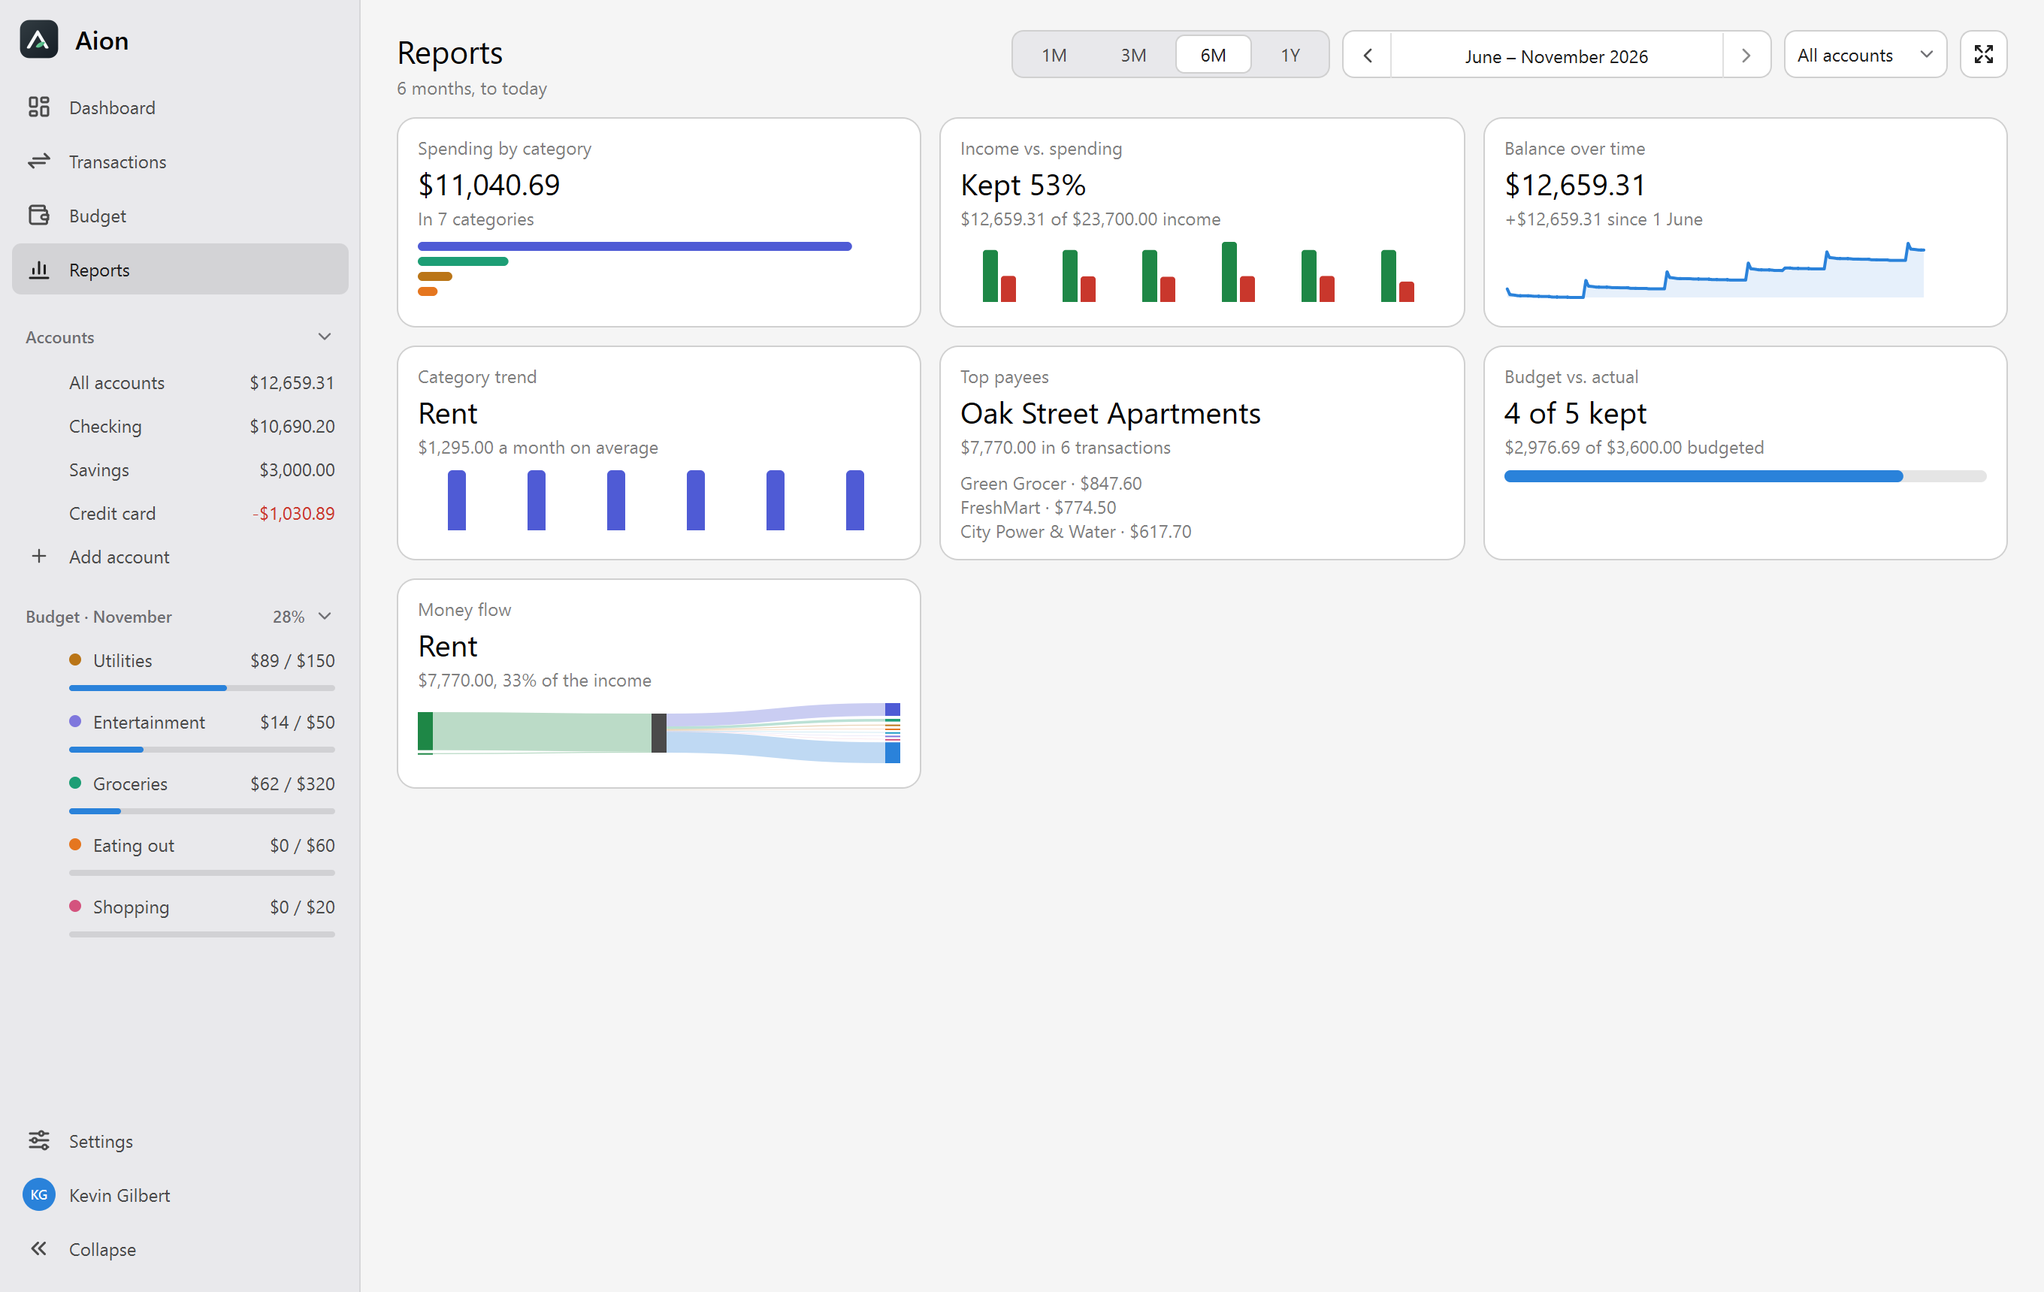
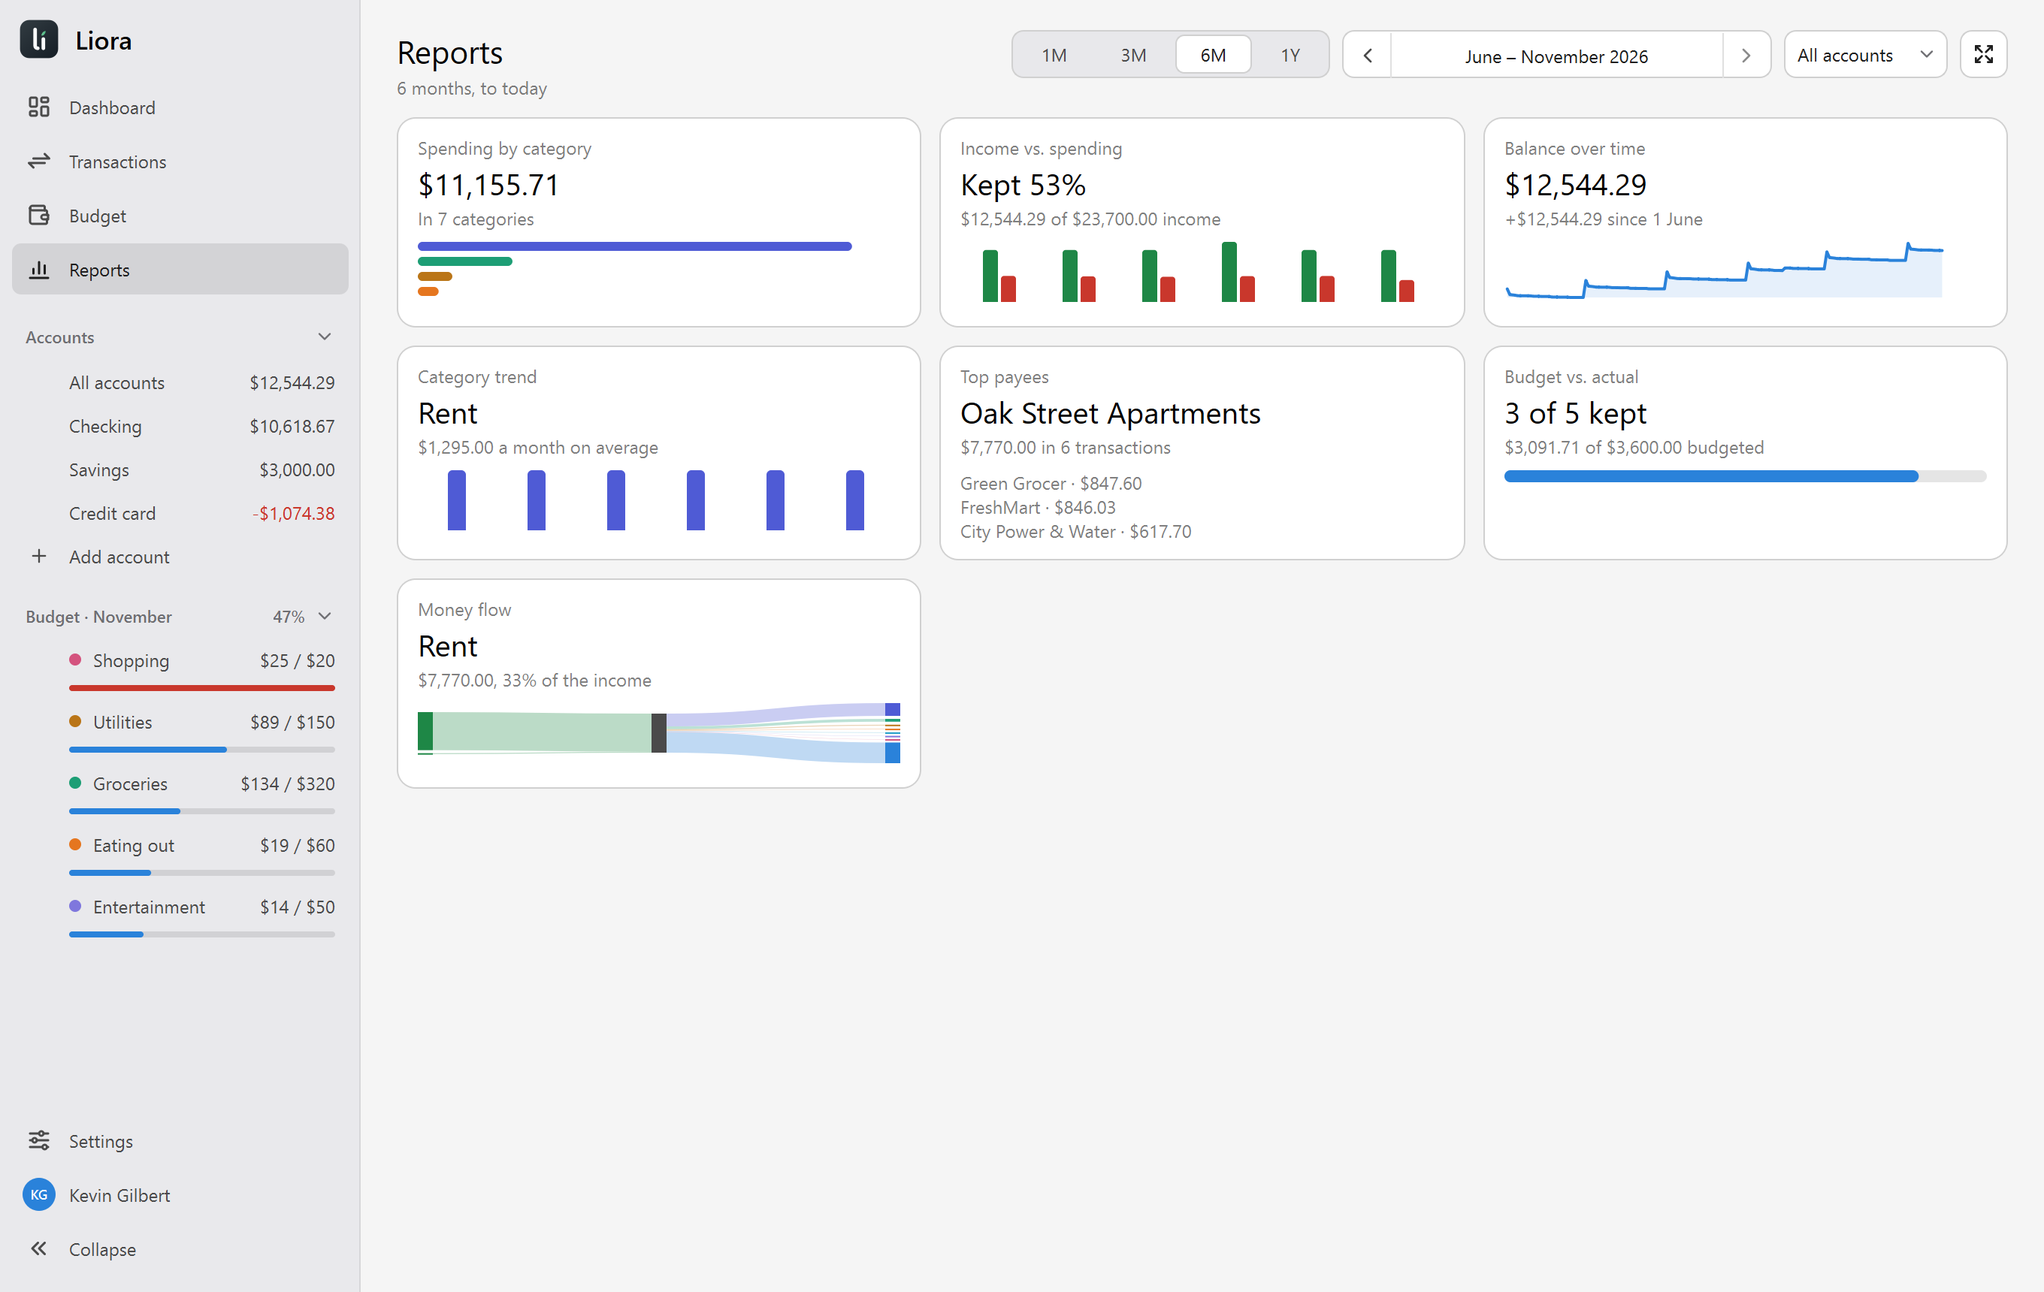
docs: the docs and screenshots say Liora, and the README explains how Aion's data is carried over

diff --git a/CONTRIBUTING.md b/CONTRIBUTING.md
@@ -1,4 +1,4 @@
-# Contributing to Aion
+# Contributing to Liora
 
 This page explains how to set up a development environment. For a quick build from the command line,
 see [Building](README.md#building) in the README.
@@ -12,7 +12,7 @@ see [Building](README.md#building) in the README.
 
 ## Choosing a compiler (Windows)
 
-Aion builds with MSVC and with MinGW. CI builds Linux and a MinGW build for Windows, and the coverage
+Liora builds with MSVC and with MinGW. CI builds Linux and a MinGW build for Windows, and the coverage
 script needs GCC or Clang. Use whichever you like. The one rule is that the compiler has to match the Qt kit
 you build against, because Qt's libraries only link with the compiler they were built with:
 
@@ -72,13 +72,13 @@ the old compiler.
 
 Build with **Build → Build Project** (Ctrl+F9).
 
-### 3. Running and debugging Aion
+### 3. Running and debugging Liora
 
-Choose **Aion** in the run configuration dropdown, then Run or Debug.
+Choose **Liora** in the run configuration dropdown, then Run or Debug.
 
 If you didn't set up the environment file in step 1, add Qt's `bin` folder to the run configuration:
-open **Run → Edit Configurations → Aion → Environment variables** and add
-`PATH=C:\Qt\6.12.0\msvc2022_64\bin;$PATH$`. Without it, Aion stops right away because Windows can't
+open **Run → Edit Configurations → Liora → Environment variables** and add
+`PATH=C:\Qt\6.12.0\msvc2022_64\bin;$PATH$`. Without it, Liora stops right away because Windows can't
 find `Qt6Core.dll` or `Qt6Cored.dll`.
 
 To see `QString`, `QList` and other Qt types in the debugger, go to
@@ -100,7 +100,7 @@ runs, so it doesn't have to be listed anywhere.
 
 To give new run configurations these variables automatically, set them in
 **Edit configuration templates…** under **CTest Application**. Don't add `QT_QPA_PLATFORM=offscreen`
-to the **CMake Application** template, or Aion's window won't appear.
+to the **CMake Application** template, or Liora's window won't appear.
 
 From a terminal:
 
@@ -125,11 +125,11 @@ the build folder.
 Build Tools, in the `build-vs` folder, using all cores:
 
 ```powershell
-.\scripts\build.ps1 test run     # build, test, and start Aion if the tests pass
+.\scripts\build.ps1 test run     # build, test, and start Liora if the tests pass
 ```
 
 It finds the newest `msvc*_64` Qt kit under `C:\Qt` or `D:\Qt`. For a kit elsewhere, pass
-`-QtDir C:\path\to\6.12.0\msvc2022_64` once or set `AION_QT_DIR`. The tests run off screen, so their
+`-QtDir C:\path\to\6.12.0\msvc2022_64` once or set `LIORA_QT_DIR`. The tests run off screen, so their
 windows don't appear. `Get-Help .\scripts\build.ps1 -Examples` lists the other actions.
 
 To run one test program without ctest, put the kit's `bin` first in `PATH` and set the same variables:
@@ -151,7 +151,7 @@ $env:QT_FORCE_STDERR_LOGGING = '1'
 
 ## Translations
 
-Aion's texts are written in English (UK) in the code, and translated in `translations/aion_<code>.ts`,
+Liora's texts are written in English (UK) in the code, and translated in `translations/liora_<code>.ts`,
 one file per language, which the build turns into the program's translations. A text that isn't
 translated yet shows in English, so a language can be translated bit by bit. The badges in the README
 show how far each one is, and CI keeps them current
@@ -159,7 +159,7 @@ show how far each one is, and CI keeps them current
 
 Building the translations needs Qt's Linguist tools (`lupdate`, `lrelease`). The Qt installer's kits
 have them; on Linux they're packages of their own (`qt6-qttools-devel` on Fedora,
-`qt6-tools-dev` and `qt6-l10n-tools` on Debian and Ubuntu). Without them CMake warns, and Aion is
+`qt6-tools-dev` and `qt6-l10n-tools` on Debian and Ubuntu). Without them CMake warns, and Liora is
 built in English only.
 
 ### Texts in the code
@@ -173,7 +173,7 @@ built in English only.
   number for the language.
 - Dates, month names and file sizes: `AppLocale` (`src/applocale.h`), never `QDate::toString` with a
   fixed pattern, so they follow the language.
-- Names Aion relies on (the built-in categories, keys in the settings and the database) stay English
+- Names Liora relies on (the built-in categories, keys in the settings and the database) stay English
   in the data and are translated only where they're shown, like `displayCategoryName()`.
 
 ### After adding or changing texts
@@ -183,15 +183,15 @@ cmake --build <build folder> --target update_translations
 ```
 
 adds new and changed texts to every `.ts` file and drops the ones no longer in the code. Translate
-them with Qt Linguist (`linguist translations/aion_de.ts`, in the kit's `bin` folder) or in a text
+them with Qt Linguist (`linguist translations/liora_de.ts`, in the kit's `bin` folder) or in a text
 editor, then commit the `.ts` files with the change. Untranslated texts are fine, but a translation
 must keep its text's placeholders (`%1`, `%2`, …) and HTML tags; `test_language` checks that.
 
 ### Adding a language
 
-1. Add its code to `AION_LANGUAGES` in [CMakeLists.txt](CMakeLists.txt) and to `Language::available()`
+1. Add its code to `LIORA_LANGUAGES` in [CMakeLists.txt](CMakeLists.txt) and to `Language::available()`
    in [src/language.cpp](src/language.cpp), with its name in that language (`{"fr", "Français"}`).
-2. Create `translations/aion_<code>.ts` with only this in it, and run `update_translations`:
+2. Create `translations/liora_<code>.ts` with only this in it, and run `update_translations`:
 
    ```xml
    <?xml version="1.0" encoding="utf-8"?>
@@ -214,7 +214,7 @@ applied in order. Opening a database applies the ones it hasn't had yet, after a
   checks that by their checksums.
 - A migration that changes the data the user already has, not only the schema, gets a test of what it
   does to such data. Start it from a database at the version before (`TestDbFixture::createAtVersion`)
-  and fill that in the way the older Aion would have. `upgradingFromEveryVersionKeepsTheData` already
+  and fill that in the way the older Liora would have. `upgradingFromEveryVersionKeepsTheData` already
   checks that every version upgrades to the same schema as a new database and keeps its data.
 
 When a release has new migrations, add each to `releasedMigrationsNeverChange` with its SHA-256,
@@ -226,7 +226,7 @@ git show HEAD:db/migrations/002_starter_names.sql | sha256sum
 
 ## Before you send a change
 
-- Build without new warnings. To check, configure with `-DAION_WARNINGS_AS_ERRORS=ON`. MSVC and GCC
+- Build without new warnings. To check, configure with `-DLIORA_WARNINGS_AS_ERRORS=ON`. MSVC and GCC
   warn about different things, and CI builds with GCC.
 - Run the whole test suite.
 - If you add code to `src/`, add or update tests in `tests/`.
@@ -271,18 +271,18 @@ self-hosted runner with four build images:
     using Debian's Qt;
   - package Windows as a zip ([scripts/package-windows.sh](scripts/package-windows.sh)) and check
     that it starts with only its own files;
-  - build the installer ([installer/aion.nsi](installer/aion.nsi), NSIS), and check that it installs,
+  - build the installer ([installer/liora.nsi](installer/liora.nsi), NSIS), and check that it installs,
     starts and uninstalls under Wine;
   - pack the AppImage ([scripts/package-appimage.sh](scripts/package-appimage.sh)) and check that it
     starts;
-  - build Linux once more with `-DAION_SANITIZERS=ON` and run the tests with AddressSanitizer and
+  - build Linux once more with `-DLIORA_SANITIZERS=ON` and run the tests with AddressSanitizer and
     UndefinedBehaviorSanitizer, which stop a test at a memory error or undefined behaviour that a
     normal run passes by luck. Leaks aren't checked yet. A failure there fails the run but doesn't
     hold up the release. To run it yourself (GCC or Clang, Linux or WSL):
-    `cmake -S . -B build-sanitizers -G Ninja -DCMAKE_BUILD_TYPE=Debug -DAION_SANITIZERS=ON`, build,
+    `cmake -S . -B build-sanitizers -G Ninja -DCMAKE_BUILD_TYPE=Debug -DLIORA_SANITIZERS=ON`, build,
     then `ASAN_OPTIONS=detect_leaks=0 ctest --test-dir build-sanitizers --output-on-failure`;
   - nightly, with the draft, or when its box is ticked: build the Windows 7/8 package and its
-    installer ([installer/aion-win7.nsi](installer/aion-win7.nsi)) the same way, and check that
+    installer ([installer/liora-win7.nsi](installer/liora-win7.nsi)) the same way, and check that
     every Windows function it calls exists on Windows 7 SP1
     ([scripts/check-win7-imports.sh](scripts/check-win7-imports.sh), with the lists in
     [ci/win7-exports](ci/win7-exports/README.md)). Not first-class support: a failure there only
@@ -291,12 +291,12 @@ self-hosted runner with four build images:
     `staging` pre-release, the version's draft only when started by hand with the box ticked.
 - **Coverage**, nightly (04:00 UTC, [.forgejo/workflows/coverage.yml](.forgejo/workflows/coverage.yml),
   only when more than documentation changed since the measured commit): builds with
-  `-DAION_COVERAGE=ON`, runs [scripts/coverage.sh](scripts/coverage.sh) and commits `COVERAGE.md`
-  and the badge to `develop` as "Aion CI" when the report changed. That commit doesn't start a build.
+  `-DLIORA_COVERAGE=ON`, runs [scripts/coverage.sh](scripts/coverage.sh) and commits `COVERAGE.md`
+  and the badge to `develop` as "Liora CI" when the report changed. That commit doesn't start a build.
 
 Packaging only in these runs saves the runner and Codeberg from packing and uploading every push.
 
-If Aion starts using a Qt module it didn't use before, add it to the plugin table in
+If Liora starts using a Qt module it didn't use before, add it to the plugin table in
 `package-windows.sh`. The packaging stops and says so until you do.
 
 ### Build images

diff --git a/README.md b/README.md
@@ -1,9 +1,9 @@
-# <img src="assets/aion-logo.svg" alt="" width="48" align="middle"> Aion
+<h1 align="center"><img src="assets/liora-wordmark.svg" alt="Liora" width="280"></h1>
 
 [![Coverage](docs/coverage-badge.svg)](COVERAGE.md)
 [![License: GPL-3.0-or-later](docs/license-badge.svg)](LICENSE)
 <!-- translations: written by scripts/translation-status.cmake -->
-[![Deutsch: 100% translated](docs/translation-de-badge.svg)](translations/aion_de.ts)
+[![Deutsch: 100% translated](docs/translation-de-badge.svg)](translations/liora_de.ts)
 <!-- /translations -->
 
 <p align="center">
@@ -29,7 +29,7 @@ Built with Qt 6 Widgets and SQLite.
 Abandon Excel. I made this app to suit my workflow and my needs, maybe it suits yours too.
 
 > [!WARNING]
-> Aion is a very early build, still in development. Expect missing features and bugs, and maybe don't
+> Liora is a very early build, still in development. Expect missing features and bugs, and maybe don't
 > rely on it for daily use just yet. Please report bugs on the
 > [issues page](https://codeberg.org/spectre_0/aion/issues).
 
@@ -48,21 +48,21 @@ Abandon Excel. I made this app to suit my workflow and my needs, maybe it suits 
 - **Backups:** back up automatically and restore from inside the app. Everything stays on your
   own computer, there is no online service involved.
 
-Aion tries to follow the ideas of [permacomputing](https://permacomputing.net/): use as little
+Liora tries to follow the ideas of [permacomputing](https://permacomputing.net/): use as little
 computing, energy and storage as the job needs, do work only when it's needed, and keep things
 small, simple and long-lived. Feel free to suggest anything related to that.
 
 ## Download and install
 
-Aion runs on Windows and Linux (64-bit). Get it from the
+Liora runs on Windows and Linux (64-bit). Get it from the
 [releases page](https://codeberg.org/spectre_0/aion/releases).
 
 **Windows 10 and 11:** run the file ending in `windows-x64-setup.exe`. It does not need administrator rights,
  you can install it on your user account only. There's also a `windows-x64.zip` if you'd
- rather not install anything: unpack it and start `Aion.exe`.
+ rather not install anything: unpack it and start `Liora.exe`.
 
 **Windows 7 SP1, 8 and 8.1:** use the files ending in `windows7-x64-setup.exe` or `windows7-x64.zip`
- the same way. Aion uses Qt 6, which officially supports only Windows 10 and later.
+ the same way. Liora uses Qt 6, which officially supports only Windows 10 and later.
 To enable compatibility with older Windows versions, this build uses Qt 6.8 with
 patches from [qt6windows7](https://github.com/crystalidea/qt6windows7).
 These patches are unofficial and not supported by Qt.
@@ -82,21 +82,27 @@ file, and may work on similar systems if those have Qt 6.8 or newer.
 If one won't install, use the AppImage, which brings its own Qt and also runs
 on older systems.
 
-Aion doesn't update itself yet. To update, download the new version
+Liora doesn't update itself yet. To update, download the new version
 from this repository. Your data stays where it is, and a database is backed up
 before a new version changes it.
 
 ## Your data
 
-Aion keeps everything on your computer:
+Liora keeps everything on your computer:
 
 | | Windows | Linux |
 |---|---|---|
-| Database | `%APPDATA%\Aion\app_data.db` | `~/.local/share/Aion/app_data.db` |
-| Settings | Registry, `HKCU\Software\LeineHive\Aion` | `~/.config/LeineHive/Aion.conf` |
+| Database | `%APPDATA%\Liora\app_data.db` | `~/.local/share/Liora/app_data.db` |
+| Settings | Registry, `HKCU\Software\LeineHive\Liora` | `~/.config/LeineHive/Liora.conf` |
 
-If you create or open a database somewhere else, Aion uses that file instead. Settings > About shows
+If you create or open a database somewhere else, Liora uses that file instead. Settings > About shows
 the folders in use.
+
+Liora was called Aion before. The first time Liora starts, it copies Aion's folder and settings
+(`%APPDATA%\Aion` and `HKCU\Software\LeineHive\Aion` on Windows, `~/.local/share/Aion` and
+`~/.config/LeineHive/Aion.conf` on Linux), so everything is there as before. Aion's copies stay where
+they are, as a backup: once you've checked that Liora has everything, you can delete them, or uninstall
+Aion and tick "My data".
 
 Automatic backups go in a `backups` folder next to the database. Settings > Backup sets how often
 they run, and you can restore them or save a copy elsewhere from there. They're on the same disk as
@@ -128,31 +134,32 @@ The coverage report is measured nightly by CI. To measure it yourself (GCC or Cl
 [gcovr](https://gcovr.com)):
 
 ```
-cmake -S . -B build-coverage -DCMAKE_BUILD_TYPE=Debug -DAION_COVERAGE=ON -DCMAKE_PREFIX_PATH=<path to Qt>
+cmake -S . -B build-coverage -DCMAKE_BUILD_TYPE=Debug -DLIORA_COVERAGE=ON -DCMAKE_PREFIX_PATH=<path to Qt>
 cmake --build build-coverage
 scripts/coverage.sh build-coverage
 ```
 
 `--publish` also rewrites `COVERAGE.md` and the badge.
 
-Every push is built and tested for Linux and Windows on a CI runner dedicated to Aion and run by me (its
+Every push is built and tested for Linux and Windows on a CI runner dedicated to Liora and run by me (its
 maintainer), so the builds don't use Codeberg's CI resources. How it works:
 [Builds and releases](CONTRIBUTING.md#builds-and-releases).
 
 ## License
 
-Copyright © 2024–2026 the Aion contributors (see [AUTHORS](AUTHORS)).
+Copyright © 2024–2026 the Liora contributors (see [AUTHORS](AUTHORS)).
 
-Aion is free software: you can redistribute it and/or modify it under the terms of the GNU General
+Liora is free software: you can redistribute it and/or modify it under the terms of the GNU General
 Public License as published by the Free Software Foundation, either version 3 of the License, or (at
 your option) any later version. It is distributed in the hope that it will be useful, but WITHOUT ANY
 WARRANTY; see [LICENSE](LICENSE) for details.
 
-This covers the source code and every asset made for Aion, except its name and logo.
+This covers the source code and every asset made for Liora, except its name and logo.
 
-**Name and logo.** The name "Aion" and the Aion logo (`assets/aion-logo.svg` and the icons made from
-it) are not covered by the GPL; all rights reserved by the Aion contributors. You may use them to refer
-to Aion, for example in articles or links. Modified versions that get distributed need their own name and
+**Name and logo.** The name "Liora" and the Liora logos and wordmark (`assets/liora-*.svg` and the
+icons made from them), and the earlier name "Aion" and its logo (`assets/aion-logo.svg`), are not
+covered by the GPL; all rights reserved by the Liora contributors. You may use them to refer to Liora,
+for example in articles or links. Modified versions that get distributed need their own name and
 logo.
 
 **Third-party parts** keep their own licenses:

diff --git a/ROADMAP.md b/ROADMAP.md
@@ -54,11 +54,11 @@ Windows is built, tested, packaged (zip and installer) and released by CI; see
 - Add `mingw32-nsis` to the build image, so the Windows job doesn't install it on every run.
 - Smaller Windows build: ICU is 37 of about 80 MB. Fedora's Qt needs it; Qt's official Windows build
   doesn't use it. Options: build with the official Qt (made with another MinGW version, so test
-  well), build Qt without ICU, or build a smaller ICU data file with only the languages Aion needs.
+  well), build Qt without ICU, or build a smaller ICU data file with only the languages Liora needs.
   Leaving out unused image format plugins would save a few MB more.
 
 ## Later
 
 - Contracts (phone plans, insurance, …): when they started, when they probably end and what they
-  charge per interval, so Aion can expect those transactions. Budgets could take them into account.
+  charge per interval, so Liora can expect those transactions. Budgets could take them into account.
   After rules and Reports.

diff --git a/COVERAGE.md b/COVERAGE.md
@@ -569,7 +569,7 @@
 - Create migrates and remembers the file
 - Create refuses existing files
 - Open switches between databases
-- Rejects files that are not aion databases
+- Rejects files that are not liora databases
 
 </details>
 
@@ -624,7 +624,7 @@
 
 - English first then german
 - A chosen language wins
-- System follows the computer when aion has its language
+- System follows the computer when liora has its language
 - An unknown setting follows the system
 - Only english without the translations
 - Restarts the app image when running from inside one
